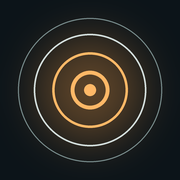
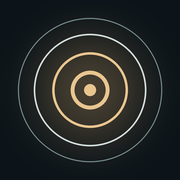
Back to the original copper colour

Changed region(s): [[0.2778, 0.2778, 0.7222, 0.7222], [0.3889, 0.3889, 0.6111, 0.6111], [0.4722, 0.4722, 0.5556, 0.5556]]

diff --git a/index.html b/index.html
@@ -26,8 +26,8 @@
   --line:#253740;
   --mist:#d3dedc;
   --dim:#8a9ea0;
-  --candle:#ffb867;
-  --candle-soft:rgba(255,184,103,.18);
+  --candle:#e9c690;
+  --candle-soft:rgba(233,198,144,.12);
   --display:'Cormorant Garamond', Georgia, 'Times New Roman', serif;
   --ui:'Jost', system-ui, -apple-system, 'Segoe UI', sans-serif;
 }
@@ -59,7 +59,7 @@ h1{font-family:var(--display);font-weight:300;font-style:italic;font-size:2.4rem
   border:1px solid var(--candle);background:var(--candle-soft);color:var(--candle);
   display:grid;place-items:center;cursor:pointer;transition:background .6s, transform .3s;
 }
-.play:hover{background:rgba(255,184,103,.28)}
+.play:hover{background:rgba(233,198,144,.2)}
 .play:active{transform:scale(.96)}
 .play svg{width:26px;height:26px}
 .playlabel{font-size:.78rem;letter-spacing:.14em;text-transform:uppercase;color:var(--dim);margin-top:-10px}
@@ -83,7 +83,7 @@ h3{font-family:var(--display);font-style:italic;font-weight:300;font-size:1.15re
 .sound b{font-family:var(--display);font-weight:400;font-size:1.3rem;line-height:1.1}
 .sound span{color:var(--dim);font-size:.8rem;line-height:1.4}
 .sound{position:relative}
-.sound[aria-pressed="true"]{border-color:var(--candle);background:linear-gradient(var(--candle-soft),var(--candle-soft)),var(--surface);box-shadow:0 0 22px rgba(255,184,103,.26)}
+.sound[aria-pressed="true"]{border-color:var(--candle);background:linear-gradient(var(--candle-soft),var(--candle-soft)),var(--surface);box-shadow:0 0 18px rgba(233,198,144,.16)}
 .sound[aria-pressed="true"] svg{color:var(--candle)}
 .sound[aria-pressed="true"] b{color:var(--candle)}
 .sound .tag{position:absolute;top:13px;right:13px;display:none;align-items:center;gap:6px;font-size:.66rem;letter-spacing:.14em;text-transform:uppercase;color:var(--candle);font-style:normal}
@@ -92,12 +92,12 @@ h3{font-family:var(--display);font-style:italic;font-weight:300;font-size:1.15re
 .is-playing .sound[aria-pressed="true"] .tag{display:flex}
 .is-playing .sound[aria-pressed="true"] .tag::before{animation:beat 6s ease-in-out infinite}
 @keyframes glow{
-  0%,100%{box-shadow:0 0 0 1px var(--candle),0 0 16px rgba(255,184,103,.26)}
-  50%{box-shadow:0 0 0 1px var(--candle),0 0 42px rgba(255,184,103,.6)}
+  0%,100%{box-shadow:0 0 0 1px var(--candle),0 0 14px rgba(233,198,144,.16)}
+  50%{box-shadow:0 0 0 1px var(--candle),0 0 36px rgba(233,198,144,.42)}
 }
 @keyframes beat{0%,100%{opacity:.45}50%{opacity:1}}
 @media (prefers-reduced-motion: reduce){
-  .is-playing .sound[aria-pressed="true"]{animation:none;box-shadow:0 0 0 1px var(--candle),0 0 32px rgba(255,184,103,.45)}
+  .is-playing .sound[aria-pressed="true"]{animation:none;box-shadow:0 0 0 1px var(--candle),0 0 28px rgba(233,198,144,.32)}
   .is-playing .sound[aria-pressed="true"] .tag::before{animation:none}
 }
 
@@ -776,8 +776,8 @@ function paint(breath, progress){
   const w = cv.width, c = w/2, R = c - 4*(devicePixelRatio||1);
   g2.clearRect(0,0,w,w);
   const gr = g2.createRadialGradient(c,c,0,c,c,R*.95);
-  gr.addColorStop(0, rgba(C.candle, .12 + .14*breath));
-  gr.addColorStop(.55, rgba(C.candle, .05 + .05*breath));
+  gr.addColorStop(0, rgba(C.candle, .08 + .1*breath));
+  gr.addColorStop(.55, rgba(C.candle, .03 + .03*breath));
   gr.addColorStop(1, rgba(C.candle, 0));
   g2.fillStyle = gr; g2.beginPath(); g2.arc(c,c,R,0,Math.PI*2); g2.fill();
   if(S && !reduce.matches){
@@ -787,7 +787,7 @@ function paint(breath, progress){
       if(ct < e.at) continue;
       const life = e.kind === 'deep' ? 14 : 9, p = (ct - e.at)/life;
       const r = R*.12 + R*.8*(1 - Math.pow(1-p, 2.2));
-      const a = Math.pow(1-p, 1.6)*(e.kind === 'piano' ? .4 : .75);
+      const a = Math.pow(1-p, 1.6)*(e.kind === 'piano' ? .4 : .55);
       g2.strokeStyle = rgba(e.kind === 'piano' ? C.mist : C.candle, a);
       g2.lineWidth = (e.kind === 'deep' ? 2.2 : 1.1)*(devicePixelRatio||1);
       g2.beginPath(); g2.arc(c,c,r,0,Math.PI*2); g2.stroke();
@@ -796,7 +796,7 @@ function paint(breath, progress){
   g2.lineWidth = 1.5*(devicePixelRatio||1);
   g2.strokeStyle = C.line; g2.beginPath(); g2.arc(c,c,R,0,Math.PI*2); g2.stroke();
   if(progress > 0){
-    g2.strokeStyle = rgba(C.candle, 1); g2.beginPath();
+    g2.strokeStyle = rgba(C.candle, .8); g2.beginPath();
     g2.arc(c,c,R,-Math.PI/2,-Math.PI/2 + Math.PI*2*progress); g2.stroke();
   }
 }

diff --git a/sw.js b/sw.js
@@ -1,5 +1,5 @@
 /* Slow Hours: offline support. Built by build.py; version changes with the content. */
-const CACHE = "slowhours-15c7167313", FONTS = "slowhours-fonts";
+const CACHE = "slowhours-8fec5e1c5e", FONTS = "slowhours-fonts";
 const SHELL = ["./", "index.html", "manifest.webmanifest", "icons/apple-touch-icon.png", "icons/icon-192.png", "icons/icon-512.png", "icons/icon-maskable-512.png"];
 self.addEventListener("install", e => { e.waitUntil(caches.open(CACHE).then(c => c.addAll(SHELL)).then(() => self.skipWaiting())); });
 self.addEventListener("activate", e => {
